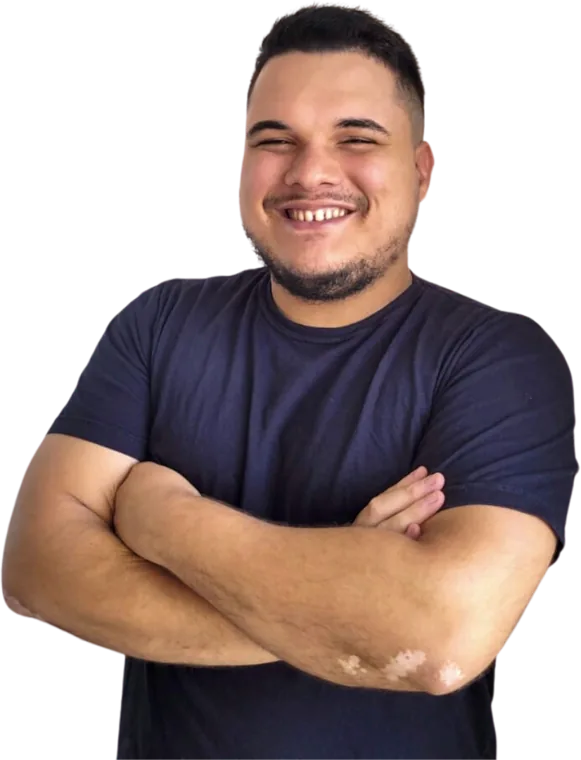
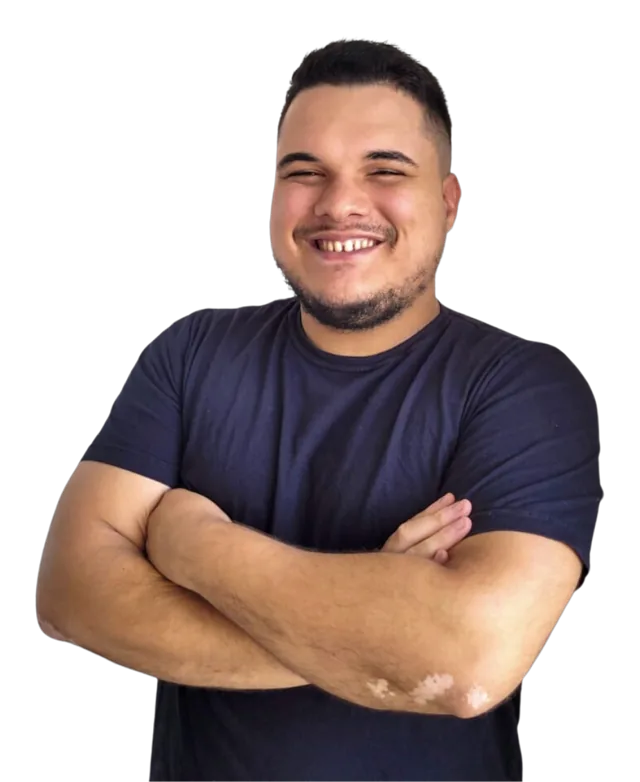
Hero: remove o selo e troca o brilho por uma luz suave que acende revelando o Adriel
Claude-Session: https://claude.ai/code/session_01MgH5XtAZ1t87CY2YNDTa84

Changed region(s): [[0.0, 0.0, 1.0, 1.0], [0.7745, 0.575, 0.8055, 0.6053], [0.3098, 0.7566, 0.3408, 0.7868]]

diff --git a/index.html b/index.html
@@ -109,11 +109,12 @@ button{font:inherit;color:inherit;background:none;border:0;cursor:pointer}
 .hero::after{content:"";position:absolute;inset:0;z-index:1;pointer-events:none;background:repeating-linear-gradient(90deg,rgba(255,255,255,.014) 0 1px,transparent 1px 7px),radial-gradient(120% 80% at 50% 0%,transparent 55%,rgba(0,0,0,.4) 100%)}
 .hero-inner{position:relative;z-index:2;pointer-events:none;max-width:var(--max);margin:0 auto;min-height:inherit;padding:calc(var(--nav-h) + 40px) var(--pad) 80px;display:flex;flex-direction:column;justify-content:center}
 .copy{max-width:min(580px,44vw);pointer-events:auto}
-.prof{position:absolute;z-index:-1;top:calc(var(--nav-h) + 24px);left:calc(var(--pad) + min(580px,44vw) + 2vw);height:min(calc(100vh - var(--nav-h) - 30px),calc(32vw * 1.31),600px);height:min(calc(100svh - var(--nav-h) - 30px),calc(32vw * 1.31),600px);pointer-events:none}
-.prof::before{content:"";position:absolute;left:-10%;right:-10%;bottom:0;height:78%;border-radius:50% 50% 0 0;background:radial-gradient(60% 70% at 50% 100%,rgba(255,183,3,.34),rgba(255,183,3,.08) 55%,transparent 75%)}
-.prof img{position:relative;height:100%;width:auto;-webkit-mask-image:linear-gradient(#000 78%,transparent);mask-image:linear-gradient(#000 78%,transparent);opacity:0;transform:translateY(40px);animation:rise 1.2s var(--ease) .25s forwards}
-.prof-tag{position:absolute;z-index:2;left:-8%;bottom:20%;background:var(--white);color:var(--navy);border-radius:16px;padding:12px 16px;font-weight:900;font-size:15px;line-height:1.2;box-shadow:0 18px 40px rgba(0,0,0,.35);opacity:0;animation:rise .9s var(--ease) .9s forwards}
-.prof-tag small{display:block;font-weight:700;font-size:13px;color:var(--navy-70)}
+.prof{position:absolute;z-index:-1;top:calc(var(--nav-h) + 24px);left:calc(var(--pad) + min(580px,44vw) + 2vw);height:min(calc(100vh - var(--nav-h) - 30px),calc(32vw * 1.22),600px);height:min(calc(100svh - var(--nav-h) - 30px),calc(32vw * 1.22),600px);pointer-events:none}
+.prof-light{position:absolute;z-index:-1;left:-45%;right:-45%;top:-4%;height:92%;background:radial-gradient(closest-side,rgba(255,183,3,.30),rgba(255,183,3,.13) 42%,rgba(255,183,3,.04) 70%,transparent 100%);opacity:0;transform:scale(.8);animation:lampOn 1.6s var(--ease) .7s forwards}
+.prof-light::after{content:"";position:absolute;left:8%;top:18%;width:46%;height:60%;background:radial-gradient(closest-side,rgba(244,247,250,.07),transparent)}
+.prof img{position:relative;height:100%;width:auto;-webkit-mask-image:linear-gradient(#000 60%,transparent 92%);mask-image:linear-gradient(#000 60%,transparent 92%);opacity:0;transform:translateY(30px);filter:brightness(.12) drop-shadow(0 0 0 rgba(255,183,3,0));animation:rise 1.2s var(--ease) .2s forwards,lightUp 1.8s var(--ease) .6s forwards}
+@keyframes lampOn{to{opacity:1;transform:none}}
+@keyframes lightUp{to{filter:brightness(1.04) drop-shadow(0 0 1px rgba(255,200,90,.45)) drop-shadow(8px -6px 20px rgba(255,183,3,.22))}}
 .hero h1{font-size:clamp(40px,5.1vw,72px);line-height:1.02;font-weight:900;letter-spacing:-.035em}
 .hero h1 em{font-style:normal;color:var(--gold)}
 .hero .sub{margin-top:26px;color:var(--soft-80);font-size:clamp(17px,1.5vw,20px);line-height:1.6;max-width:530px}
@@ -315,7 +316,6 @@ footer{background:var(--navy);color:var(--soft-60);padding:70px 0 110px;font-siz
   .hero-inner{justify-content:flex-end;text-align:center;align-items:center;padding:calc(var(--nav-h) + min(44vh,340px)) 24px 48px}
   .copy{max-width:560px}
   .prof{left:4%;top:calc(var(--nav-h) + 6px);bottom:auto;width:auto;height:calc(min(44vh,340px) - 6px)}
-  .prof-tag{left:auto;right:-30%;bottom:16%;font-size:13px;padding:9px 12px}
   .hero h1{font-size:clamp(32px,8.6vw,52px)}
   .hero .sub{margin:14px auto 0;font-size:16px}
   .cta-row{justify-content:center;margin-top:24px}
@@ -378,6 +378,8 @@ footer{background:var(--navy);color:var(--soft-60);padding:70px 0 110px;font-siz
 }
 @media (max-height:620px){ .quote:nth-child(2n){transform:none} .hs-note{display:none} }
 @media (prefers-reduced-motion:reduce){
+  .prof img{animation:none;opacity:1;transform:none;filter:drop-shadow(0 0 1px rgba(255,200,90,.45)) drop-shadow(8px -6px 20px rgba(255,183,3,.22))}
+  .prof-light{animation:none;opacity:1;transform:none}
   .reveal{animation:none;opacity:1;transform:none}
   .rv,.rv-img,.split .w>span{opacity:1!important;transform:none!important;transition:none!important}
   .photo img{clip-path:none}
@@ -422,8 +424,8 @@ footer{background:var(--navy);color:var(--soft-60);padding:70px 0 110px;font-siz
   <div class="pi" id="pi" aria-hidden="true">π</div>
   <div class="hero-inner">
     <div class="prof" id="prof">
-      <img src="img/adriel-lucas.webp" width="581" height="760" fetchpriority="high" decoding="async" alt="Professor Adriel Lucas sorrindo, de camiseta azul marinho e braços cruzados" />
-      <div class="prof-tag">Prof. Adriel Lucas<small>UFRN, 4 anos de sala de aula</small></div>
+      <div class="prof-light" aria-hidden="true"></div>
+      <img src="img/adriel-lucas.webp" width="640" height="782" fetchpriority="high" decoding="async" alt="Professor Adriel Lucas sorrindo, de camiseta azul marinho e braços cruzados" />
     </div>
     <div class="copy">
       <h1 class="reveal d1">Perca o medo da prova de matemática em <em>40 páginas</em></h1>
@@ -526,7 +528,7 @@ footer{background:var(--navy);color:var(--soft-60);padding:70px 0 110px;font-siz
     <div class="about">
       <div class="photo" id="photo">
         <div class="badge">4 anos<small>dando aula</small></div>
-        <img src="img/adriel-lucas.webp" width="581" height="760" loading="lazy" decoding="async" alt="Professor Adriel Lucas sorrindo, de camiseta azul marinho e braços cruzados" />
+        <img src="img/adriel-lucas.webp" width="640" height="782" loading="lazy" decoding="async" alt="Professor Adriel Lucas sorrindo, de camiseta azul marinho e braços cruzados" />
       </div>
       <div>
         <h2 class="h2 split" id="t-sobre">Prazer, sou o Adriel. Ensino matemática para quem <em>acha que não nasceu pra ela</em></h2>
